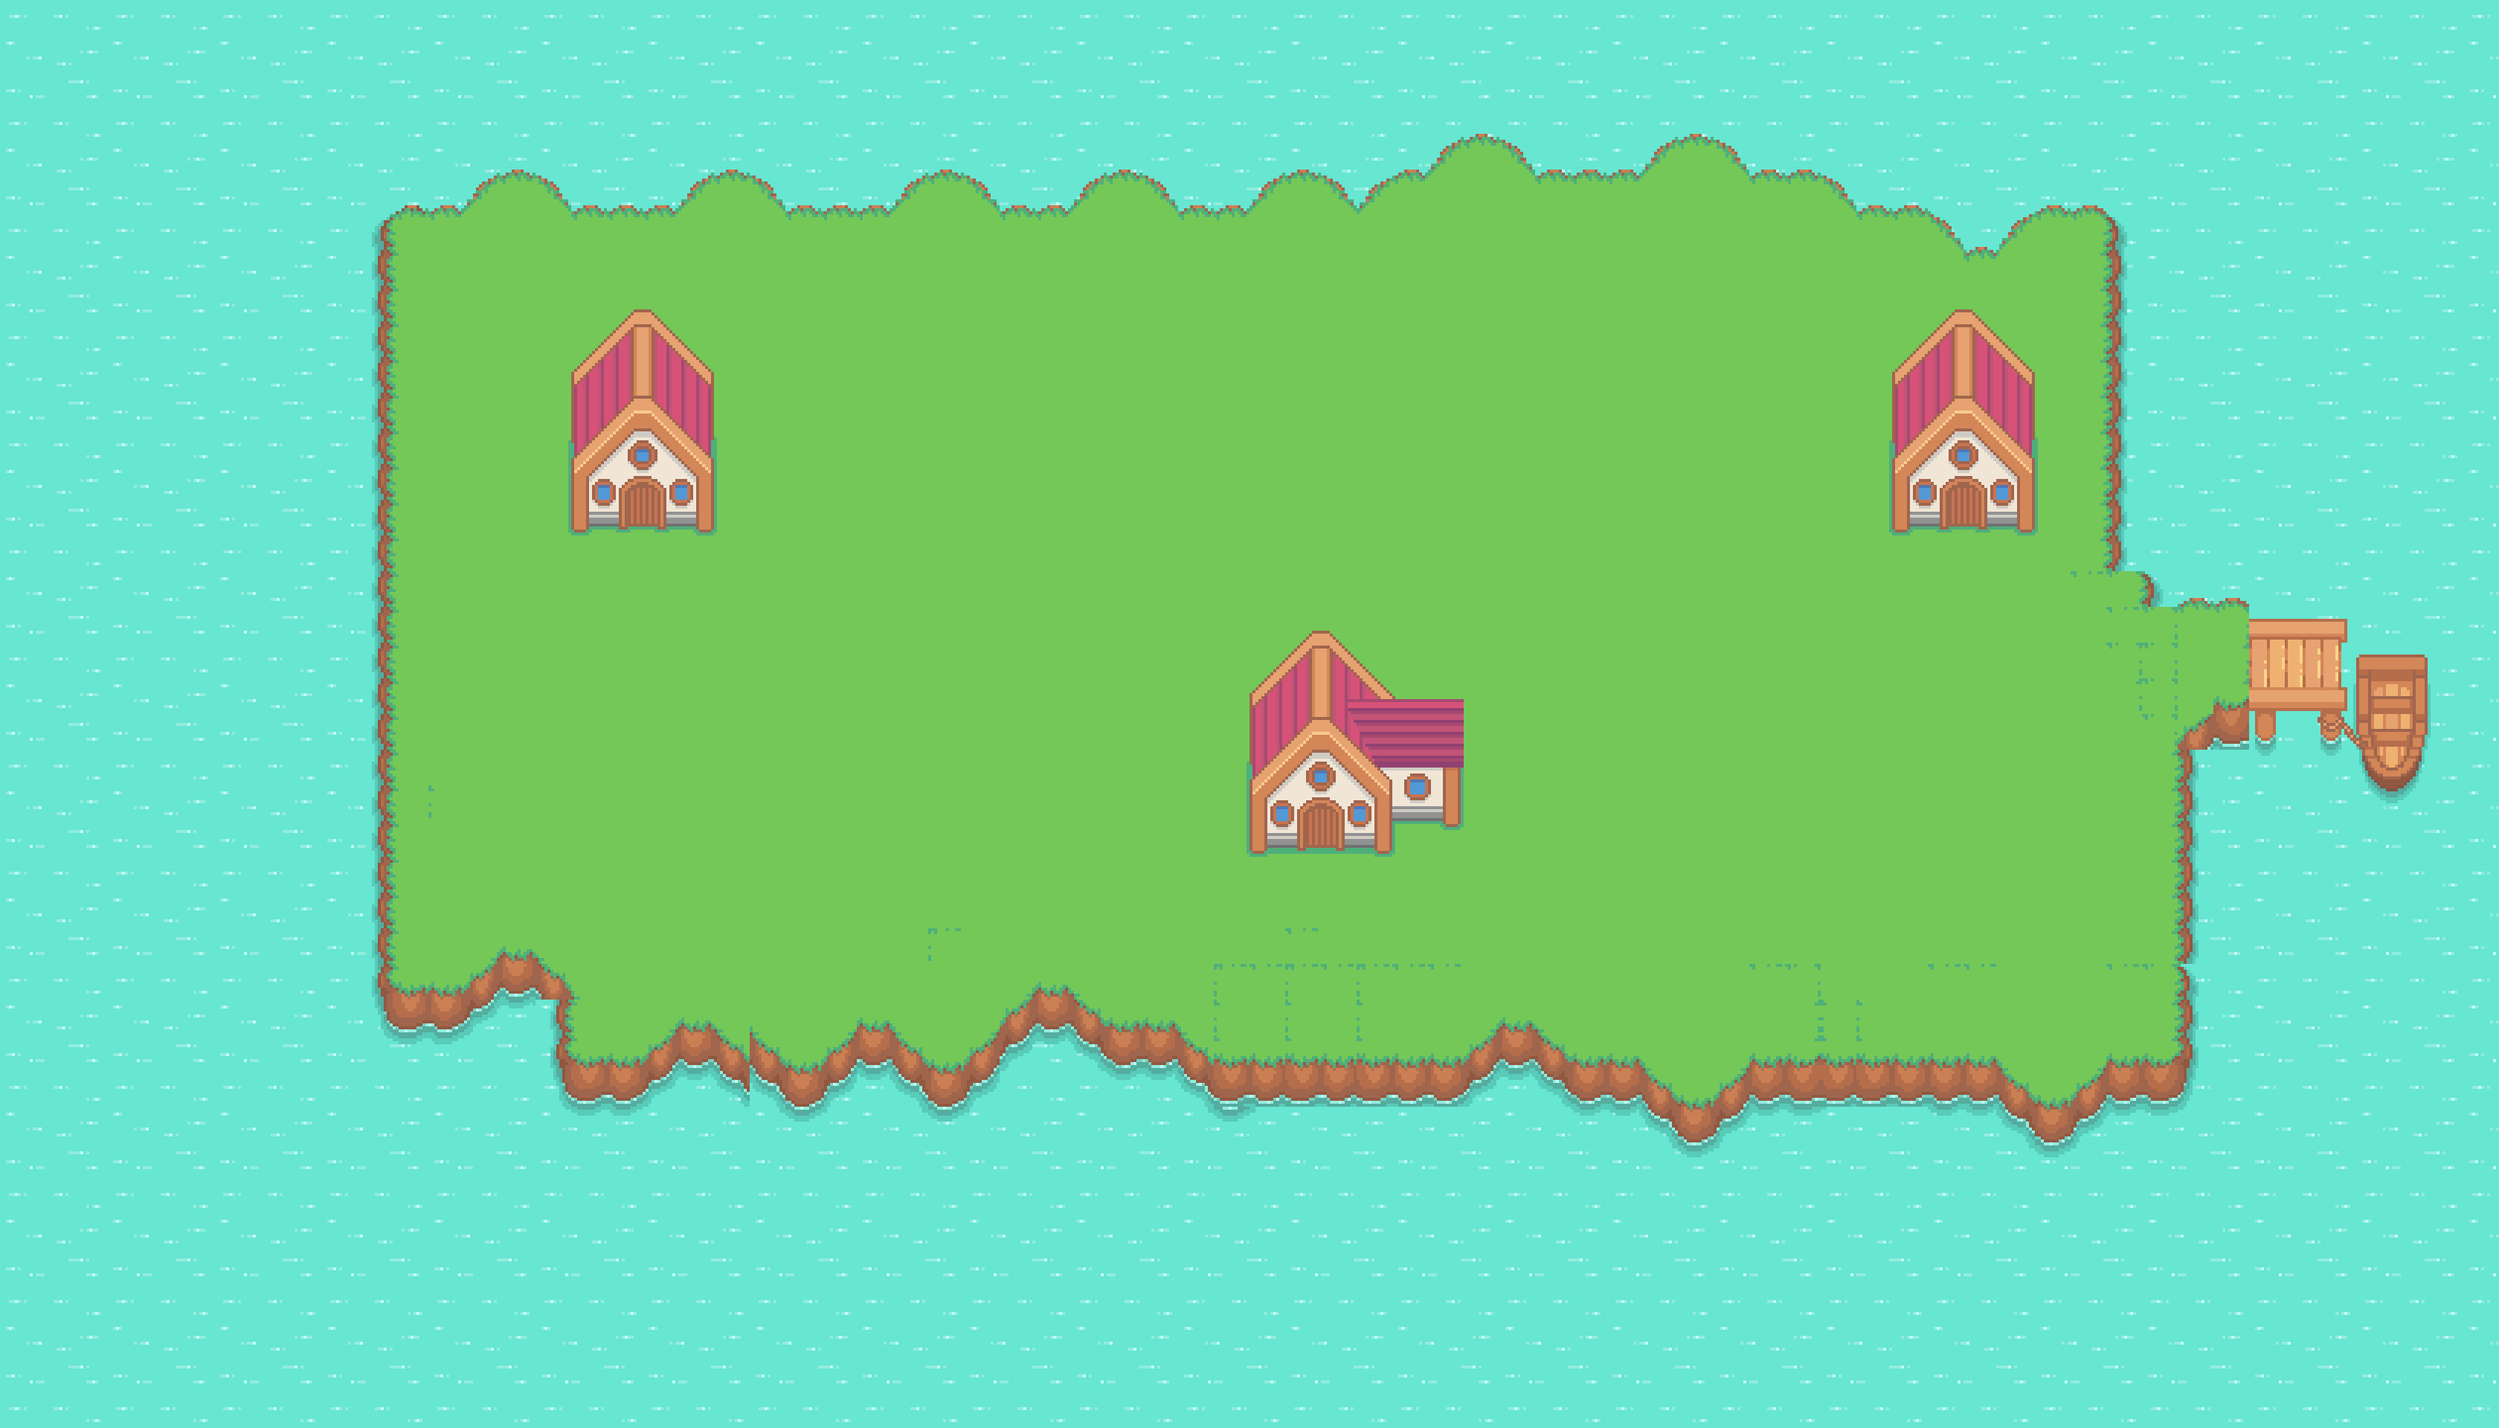
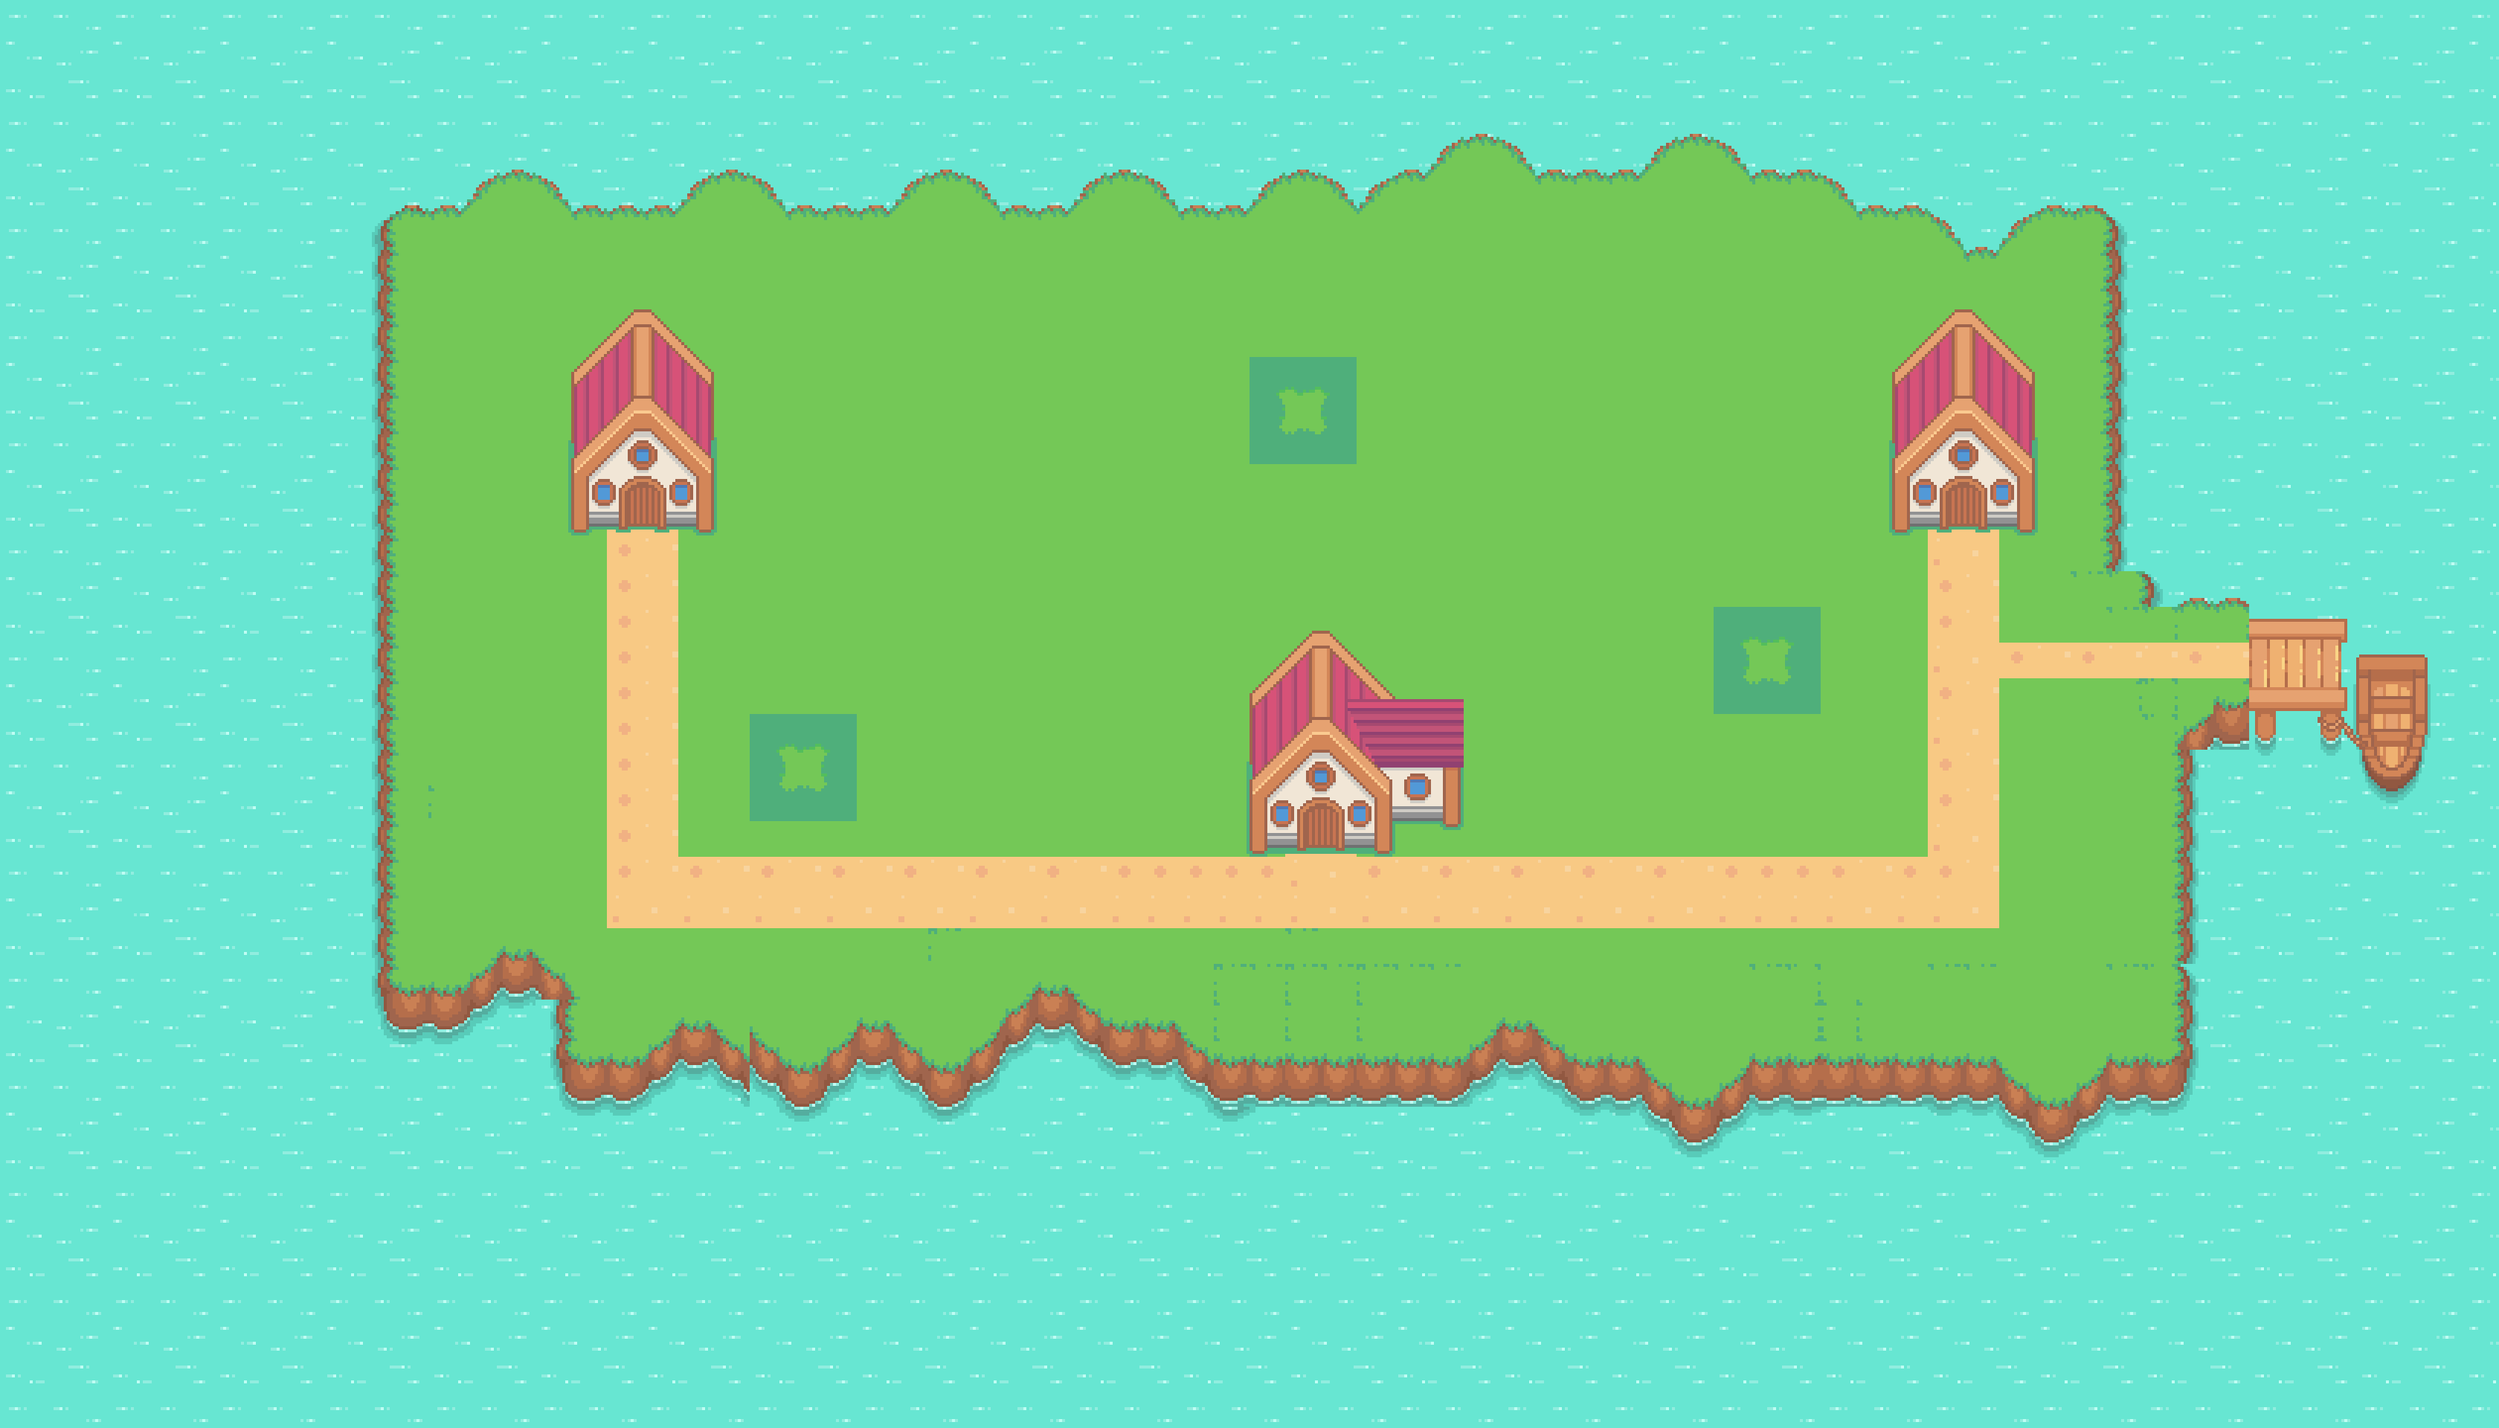
main (22.11.23.01): battlezones

Changed region(s): [[0.2188, 0.375, 0.9062, 0.6562], [0.5, 0.25, 0.5625, 0.3438]]

diff --git a/try/pokemon/data/battles.js b/try/pokemon/data/battles.js
@@ -1,0 +1,40 @@
+const battleZonesData = [0, 0, 0, 0, 0, 0, 0, 0, 0, 0, 0, 0, 0, 0, 0, 0, 0, 0, 0, 0, 0, 0, 0, 0, 0, 0, 0, 0, 0, 0, 0, 0, 0, 0, 0, 0, 0, 0, 0, 0, 0, 0, 0, 0, 0, 0, 0, 0, 0, 0, 0, 0, 0, 0, 0, 0, 0, 0, 0, 0, 0, 0, 0, 0, 0, 0, 0, 0, 0, 0,
+    0, 0, 0, 0, 0, 0, 0, 0, 0, 0, 0, 0, 0, 0, 0, 0, 0, 0, 0, 0, 0, 0, 0, 0, 0, 0, 0, 0, 0, 0, 0, 0, 0, 0, 0, 0, 0, 0, 0, 0, 0, 0, 0, 0, 0, 0, 0, 0, 0, 0, 0, 0, 0, 0, 0, 0, 0, 0, 0, 0, 0, 0, 0, 0, 0, 0, 0, 0, 0, 0,
+    0, 0, 0, 0, 0, 0, 0, 0, 0, 0, 0, 0, 0, 0, 0, 0, 0, 0, 0, 0, 0, 0, 0, 0, 0, 0, 0, 0, 0, 0, 0, 0, 0, 0, 0, 0, 0, 0, 0, 0, 0, 0, 0, 0, 0, 0, 0, 0, 0, 0, 0, 0, 0, 0, 0, 0, 0, 0, 0, 0, 0, 0, 0, 0, 0, 0, 0, 0, 0, 0,
+    0, 0, 0, 0, 0, 0, 0, 0, 0, 0, 0, 0, 0, 0, 0, 0, 0, 0, 0, 0, 0, 0, 0, 0, 0, 0, 0, 0, 0, 0, 0, 0, 0, 0, 0, 0, 0, 0, 0, 0, 0, 0, 0, 0, 0, 0, 0, 0, 0, 0, 0, 0, 0, 0, 0, 0, 0, 0, 0, 0, 0, 0, 0, 0, 0, 0, 0, 0, 0, 0,
+    0, 0, 0, 0, 0, 0, 0, 0, 0, 0, 0, 0, 0, 0, 0, 0, 0, 0, 0, 0, 0, 0, 0, 0, 0, 0, 0, 0, 0, 0, 0, 0, 0, 0, 0, 0, 0, 0, 0, 0, 0, 0, 0, 0, 0, 0, 0, 0, 0, 0, 0, 0, 0, 0, 0, 0, 0, 0, 0, 0, 0, 0, 0, 0, 0, 0, 0, 0, 0, 0,
+    0, 0, 0, 0, 0, 0, 0, 0, 0, 0, 0, 0, 0, 0, 0, 0, 0, 0, 0, 0, 0, 0, 0, 0, 0, 0, 0, 0, 0, 0, 0, 0, 0, 0, 0, 0, 0, 0, 0, 0, 0, 0, 0, 0, 0, 0, 0, 0, 0, 0, 0, 0, 0, 0, 0, 0, 0, 0, 0, 0, 0, 0, 0, 0, 0, 0, 0, 0, 0, 0,
+    0, 0, 0, 0, 0, 0, 0, 0, 0, 0, 0, 0, 0, 0, 0, 0, 0, 0, 0, 0, 0, 0, 0, 0, 0, 0, 0, 0, 0, 0, 0, 0, 0, 0, 0, 0, 0, 0, 0, 0, 0, 0, 0, 0, 0, 0, 0, 0, 0, 0, 0, 0, 0, 0, 0, 0, 0, 0, 0, 0, 0, 0, 0, 0, 0, 0, 0, 0, 0, 0,
+    0, 0, 0, 0, 0, 0, 0, 0, 0, 0, 0, 0, 0, 0, 0, 0, 0, 0, 0, 0, 0, 0, 0, 0, 0, 0, 0, 0, 0, 0, 0, 0, 0, 0, 0, 0, 0, 0, 0, 0, 0, 0, 0, 0, 0, 0, 0, 0, 0, 0, 0, 0, 0, 0, 0, 0, 0, 0, 0, 0, 0, 0, 0, 0, 0, 0, 0, 0, 0, 0,
+    0, 0, 0, 0, 0, 0, 0, 0, 0, 0, 0, 0, 0, 0, 0, 0, 0, 0, 0, 0, 0, 0, 0, 0, 0, 0, 0, 0, 0, 0, 0, 0, 0, 0, 0, 0, 0, 0, 0, 0, 0, 0, 0, 0, 0, 0, 0, 0, 0, 0, 0, 0, 0, 0, 0, 0, 0, 0, 0, 0, 0, 0, 0, 0, 0, 0, 0, 0, 0, 0,
+    0, 0, 0, 0, 0, 0, 0, 0, 0, 0, 0, 0, 0, 0, 0, 0, 0, 0, 0, 0, 0, 0, 0, 0, 0, 0, 0, 0, 0, 0, 0, 0, 0, 0, 0, 0, 0, 0, 0, 0, 0, 0, 0, 0, 0, 0, 0, 0, 0, 0, 0, 0, 0, 0, 0, 0, 0, 0, 0, 0, 0, 0, 0, 0, 0, 0, 0, 0, 0, 0,
+    0, 0, 0, 0, 0, 0, 0, 0, 0, 0, 0, 0, 0, 0, 0, 0, 0, 0, 0, 0, 0, 0, 0, 0, 0, 0, 0, 0, 0, 0, 0, 0, 0, 0, 0, 1025, 1025, 1025, 0, 0, 0, 0, 0, 0, 0, 0, 0, 0, 0, 0, 0, 0, 0, 0, 0, 0, 0, 0, 0, 0, 0, 0, 0, 0, 0, 0, 0, 0, 0, 0,
+    0, 0, 0, 0, 0, 0, 0, 0, 0, 0, 0, 0, 0, 0, 0, 0, 0, 0, 0, 0, 0, 0, 0, 0, 0, 0, 0, 0, 0, 0, 0, 0, 0, 0, 0, 1025, 1025, 1025, 0, 0, 0, 0, 0, 0, 0, 0, 0, 0, 0, 0, 0, 0, 0, 0, 0, 0, 0, 0, 0, 0, 0, 0, 0, 0, 0, 0, 0, 0, 0, 0,
+    0, 0, 0, 0, 0, 0, 0, 0, 0, 0, 0, 0, 0, 0, 0, 0, 0, 0, 0, 0, 0, 0, 0, 0, 0, 0, 0, 0, 0, 0, 0, 0, 0, 0, 0, 1025, 1025, 1025, 0, 0, 0, 0, 0, 0, 0, 0, 0, 0, 0, 0, 0, 0, 0, 0, 0, 0, 0, 0, 0, 0, 0, 0, 0, 0, 0, 0, 0, 0, 0, 0,
+    0, 0, 0, 0, 0, 0, 0, 0, 0, 0, 0, 0, 0, 0, 0, 0, 0, 0, 0, 0, 0, 0, 0, 0, 0, 0, 0, 0, 0, 0, 0, 0, 0, 0, 0, 0, 0, 0, 0, 0, 0, 0, 0, 0, 0, 0, 0, 0, 0, 0, 0, 0, 0, 0, 0, 0, 0, 0, 0, 0, 0, 0, 0, 0, 0, 0, 0, 0, 0, 0,
+    0, 0, 0, 0, 0, 0, 0, 0, 0, 0, 0, 0, 0, 0, 0, 0, 0, 0, 0, 0, 0, 0, 0, 0, 0, 0, 0, 0, 0, 0, 0, 0, 0, 0, 0, 0, 0, 0, 0, 0, 0, 0, 0, 0, 0, 0, 0, 0, 0, 0, 0, 0, 0, 0, 0, 0, 0, 0, 0, 0, 0, 0, 0, 0, 0, 0, 0, 0, 0, 0,
+    0, 0, 0, 0, 0, 0, 0, 0, 0, 0, 0, 0, 0, 0, 0, 0, 0, 0, 0, 0, 0, 0, 0, 0, 0, 0, 0, 0, 0, 0, 0, 0, 0, 0, 0, 0, 0, 0, 0, 0, 0, 0, 0, 0, 0, 0, 0, 0, 0, 0, 0, 0, 0, 0, 0, 0, 0, 0, 0, 0, 0, 0, 0, 0, 0, 0, 0, 0, 0, 0,
+    0, 0, 0, 0, 0, 0, 0, 0, 0, 0, 0, 0, 0, 0, 0, 0, 0, 0, 0, 0, 0, 0, 0, 0, 0, 0, 0, 0, 0, 0, 0, 0, 0, 0, 0, 0, 0, 0, 0, 0, 0, 0, 0, 0, 0, 0, 0, 0, 0, 0, 0, 0, 0, 0, 0, 0, 0, 0, 0, 0, 0, 0, 0, 0, 0, 0, 0, 0, 0, 0,
+    0, 0, 0, 0, 0, 0, 0, 0, 0, 0, 0, 0, 0, 0, 0, 0, 0, 0, 0, 0, 0, 0, 0, 0, 0, 0, 0, 0, 0, 0, 0, 0, 0, 0, 0, 0, 0, 0, 0, 0, 0, 0, 0, 0, 0, 0, 0, 0, 1025, 1025, 1025, 0, 0, 0, 0, 0, 0, 0, 0, 0, 0, 0, 0, 0, 0, 0, 0, 0, 0, 0,
+    0, 0, 0, 0, 0, 0, 0, 0, 0, 0, 0, 0, 0, 0, 0, 0, 0, 0, 0, 0, 0, 0, 0, 0, 0, 0, 0, 0, 0, 0, 0, 0, 0, 0, 0, 0, 0, 0, 0, 0, 0, 0, 0, 0, 0, 0, 0, 0, 1025, 1025, 1025, 0, 0, 0, 0, 0, 0, 0, 0, 0, 0, 0, 0, 0, 0, 0, 0, 0, 0, 0,
+    0, 0, 0, 0, 0, 0, 0, 0, 0, 0, 0, 0, 0, 0, 0, 0, 0, 0, 0, 0, 0, 0, 0, 0, 0, 0, 0, 0, 0, 0, 0, 0, 0, 0, 0, 0, 0, 0, 0, 0, 0, 0, 0, 0, 0, 0, 0, 0, 1025, 1025, 1025, 0, 0, 0, 0, 0, 0, 0, 0, 0, 0, 0, 0, 0, 0, 0, 0, 0, 0, 0,
+    0, 0, 0, 0, 0, 0, 0, 0, 0, 0, 0, 0, 0, 0, 0, 0, 0, 0, 0, 0, 0, 1025, 1025, 1025, 0, 0, 0, 0, 0, 0, 0, 0, 0, 0, 0, 0, 0, 0, 0, 0, 0, 0, 0, 0, 0, 0, 0, 0, 0, 0, 0, 0, 0, 0, 0, 0, 0, 0, 0, 0, 0, 0, 0, 0, 0, 0, 0, 0, 0, 0,
+    0, 0, 0, 0, 0, 0, 0, 0, 0, 0, 0, 0, 0, 0, 0, 0, 0, 0, 0, 0, 0, 1025, 1025, 1025, 0, 0, 0, 0, 0, 0, 0, 0, 0, 0, 0, 0, 0, 0, 0, 0, 0, 0, 0, 0, 0, 0, 0, 0, 0, 0, 0, 0, 0, 0, 0, 0, 0, 0, 0, 0, 0, 0, 0, 0, 0, 0, 0, 0, 0, 0,
+    0, 0, 0, 0, 0, 0, 0, 0, 0, 0, 0, 0, 0, 0, 0, 0, 0, 0, 0, 0, 0, 1025, 1025, 1025, 0, 0, 0, 0, 0, 0, 0, 0, 0, 0, 0, 0, 0, 0, 0, 0, 0, 0, 0, 0, 0, 0, 0, 0, 0, 0, 0, 0, 0, 0, 0, 0, 0, 0, 0, 0, 0, 0, 0, 0, 0, 0, 0, 0, 0, 0,
+    0, 0, 0, 0, 0, 0, 0, 0, 0, 0, 0, 0, 0, 0, 0, 0, 0, 0, 0, 0, 0, 0, 0, 0, 0, 0, 0, 0, 0, 0, 0, 0, 0, 0, 0, 0, 0, 0, 0, 0, 0, 0, 0, 0, 0, 0, 0, 0, 0, 0, 0, 0, 0, 0, 0, 0, 0, 0, 0, 0, 0, 0, 0, 0, 0, 0, 0, 0, 0, 0,
+    0, 0, 0, 0, 0, 0, 0, 0, 0, 0, 0, 0, 0, 0, 0, 0, 0, 0, 0, 0, 0, 0, 0, 0, 0, 0, 0, 0, 0, 0, 0, 0, 0, 0, 0, 0, 0, 0, 0, 0, 0, 0, 0, 0, 0, 0, 0, 0, 0, 0, 0, 0, 0, 0, 0, 0, 0, 0, 0, 0, 0, 0, 0, 0, 0, 0, 0, 0, 0, 0,
+    0, 0, 0, 0, 0, 0, 0, 0, 0, 0, 0, 0, 0, 0, 0, 0, 0, 0, 0, 0, 0, 0, 0, 0, 0, 0, 0, 0, 0, 0, 0, 0, 0, 0, 0, 0, 0, 0, 0, 0, 0, 0, 0, 0, 0, 0, 0, 0, 0, 0, 0, 0, 0, 0, 0, 0, 0, 0, 0, 0, 0, 0, 0, 0, 0, 0, 0, 0, 0, 0,
+    0, 0, 0, 0, 0, 0, 0, 0, 0, 0, 0, 0, 0, 0, 0, 0, 0, 0, 0, 0, 0, 0, 0, 0, 0, 0, 0, 0, 0, 0, 0, 0, 0, 0, 0, 0, 0, 0, 0, 0, 0, 0, 0, 0, 0, 0, 0, 0, 0, 0, 0, 0, 0, 0, 0, 0, 0, 0, 0, 0, 0, 0, 0, 0, 0, 0, 0, 0, 0, 0,
+    0, 0, 0, 0, 0, 0, 0, 0, 0, 0, 0, 0, 0, 0, 0, 0, 0, 0, 0, 0, 0, 0, 0, 0, 0, 0, 0, 0, 0, 0, 0, 0, 0, 0, 0, 0, 0, 0, 0, 0, 0, 0, 0, 0, 0, 0, 0, 0, 0, 0, 0, 0, 0, 0, 0, 0, 0, 0, 0, 0, 0, 0, 0, 0, 0, 0, 0, 0, 0, 0,
+    0, 0, 0, 0, 0, 0, 0, 0, 0, 0, 0, 0, 0, 0, 0, 0, 0, 0, 0, 0, 0, 0, 0, 0, 0, 0, 0, 0, 0, 0, 0, 0, 0, 0, 0, 0, 0, 0, 0, 0, 0, 0, 0, 0, 0, 0, 0, 0, 0, 0, 0, 0, 0, 0, 0, 0, 0, 0, 0, 0, 0, 0, 0, 0, 0, 0, 0, 0, 0, 0,
+    0, 0, 0, 0, 0, 0, 0, 0, 0, 0, 0, 0, 0, 0, 0, 0, 0, 0, 0, 0, 0, 0, 0, 0, 0, 0, 0, 0, 0, 0, 0, 0, 0, 0, 0, 0, 0, 0, 0, 0, 0, 0, 0, 0, 0, 0, 0, 0, 0, 0, 0, 0, 0, 0, 0, 0, 0, 0, 0, 0, 0, 0, 0, 0, 0, 0, 0, 0, 0, 0,
+    0, 0, 0, 0, 0, 0, 0, 0, 0, 0, 0, 0, 0, 0, 0, 0, 0, 0, 0, 0, 0, 0, 0, 0, 0, 0, 0, 0, 0, 0, 0, 0, 0, 0, 0, 0, 0, 0, 0, 0, 0, 0, 0, 0, 0, 0, 0, 0, 0, 0, 0, 0, 0, 0, 0, 0, 0, 0, 0, 0, 0, 0, 0, 0, 0, 0, 0, 0, 0, 0,
+    0, 0, 0, 0, 0, 0, 0, 0, 0, 0, 0, 0, 0, 0, 0, 0, 0, 0, 0, 0, 0, 0, 0, 0, 0, 0, 0, 0, 0, 0, 0, 0, 0, 0, 0, 0, 0, 0, 0, 0, 0, 0, 0, 0, 0, 0, 0, 0, 0, 0, 0, 0, 0, 0, 0, 0, 0, 0, 0, 0, 0, 0, 0, 0, 0, 0, 0, 0, 0, 0,
+    0, 0, 0, 0, 0, 0, 0, 0, 0, 0, 0, 0, 0, 0, 0, 0, 0, 0, 0, 0, 0, 0, 0, 0, 0, 0, 0, 0, 0, 0, 0, 0, 0, 0, 0, 0, 0, 0, 0, 0, 0, 0, 0, 0, 0, 0, 0, 0, 0, 0, 0, 0, 0, 0, 0, 0, 0, 0, 0, 0, 0, 0, 0, 0, 0, 0, 0, 0, 0, 0,
+    0, 0, 0, 0, 0, 0, 0, 0, 0, 0, 0, 0, 0, 0, 0, 0, 0, 0, 0, 0, 0, 0, 0, 0, 0, 0, 0, 0, 0, 0, 0, 0, 0, 0, 0, 0, 0, 0, 0, 0, 0, 0, 0, 0, 0, 0, 0, 0, 0, 0, 0, 0, 0, 0, 0, 0, 0, 0, 0, 0, 0, 0, 0, 0, 0, 0, 0, 0, 0, 0,
+    0, 0, 0, 0, 0, 0, 0, 0, 0, 0, 0, 0, 0, 0, 0, 0, 0, 0, 0, 0, 0, 0, 0, 0, 0, 0, 0, 0, 0, 0, 0, 0, 0, 0, 0, 0, 0, 0, 0, 0, 0, 0, 0, 0, 0, 0, 0, 0, 0, 0, 0, 0, 0, 0, 0, 0, 0, 0, 0, 0, 0, 0, 0, 0, 0, 0, 0, 0, 0, 0,
+    0, 0, 0, 0, 0, 0, 0, 0, 0, 0, 0, 0, 0, 0, 0, 0, 0, 0, 0, 0, 0, 0, 0, 0, 0, 0, 0, 0, 0, 0, 0, 0, 0, 0, 0, 0, 0, 0, 0, 0, 0, 0, 0, 0, 0, 0, 0, 0, 0, 0, 0, 0, 0, 0, 0, 0, 0, 0, 0, 0, 0, 0, 0, 0, 0, 0, 0, 0, 0, 0,
+    0, 0, 0, 0, 0, 0, 0, 0, 0, 0, 0, 0, 0, 0, 0, 0, 0, 0, 0, 0, 0, 0, 0, 0, 0, 0, 0, 0, 0, 0, 0, 0, 0, 0, 0, 0, 0, 0, 0, 0, 0, 0, 0, 0, 0, 0, 0, 0, 0, 0, 0, 0, 0, 0, 0, 0, 0, 0, 0, 0, 0, 0, 0, 0, 0, 0, 0, 0, 0, 0,
+    0, 0, 0, 0, 0, 0, 0, 0, 0, 0, 0, 0, 0, 0, 0, 0, 0, 0, 0, 0, 0, 0, 0, 0, 0, 0, 0, 0, 0, 0, 0, 0, 0, 0, 0, 0, 0, 0, 0, 0, 0, 0, 0, 0, 0, 0, 0, 0, 0, 0, 0, 0, 0, 0, 0, 0, 0, 0, 0, 0, 0, 0, 0, 0, 0, 0, 0, 0, 0, 0,
+    0, 0, 0, 0, 0, 0, 0, 0, 0, 0, 0, 0, 0, 0, 0, 0, 0, 0, 0, 0, 0, 0, 0, 0, 0, 0, 0, 0, 0, 0, 0, 0, 0, 0, 0, 0, 0, 0, 0, 0, 0, 0, 0, 0, 0, 0, 0, 0, 0, 0, 0, 0, 0, 0, 0, 0, 0, 0, 0, 0, 0, 0, 0, 0, 0, 0, 0, 0, 0, 0,
+    0, 0, 0, 0, 0, 0, 0, 0, 0, 0, 0, 0, 0, 0, 0, 0, 0, 0, 0, 0, 0, 0, 0, 0, 0, 0, 0, 0, 0, 0, 0, 0, 0, 0, 0, 0, 0, 0, 0, 0, 0, 0, 0, 0, 0, 0, 0, 0, 0, 0, 0, 0, 0, 0, 0, 0, 0, 0, 0, 0, 0, 0, 0, 0, 0, 0, 0, 0, 0, 0];

diff --git a/try/pokemon/index.js b/try/pokemon/index.js
@@ -8,9 +8,14 @@ canvas.width = 1024;
 canvas.height = 576;
 
 const collisionsMap = [];
-
 for (let i = 0; i < collisions.length; i += 70) {
     collisionsMap.push(collisions.slice(i, i + 70));
+}
+
+
+const battleZonesMap = [];
+for (let i = 0; i < battleZonesData.length; i += 70) {
+    battleZonesMap.push(battleZonesData.slice(i, i + 70));
 }
 
 
@@ -29,7 +34,23 @@ collisionsMap.forEach((row, i) => {
                     x: j * Boundary.width + offset.x,
                     y: i * Boundary.height + offset.y
                 }})
-            );
+            ); 
+        
+    })
+})
+
+
+const battleZones = [];
+
+battleZonesMap.forEach((row, i) => {
+    row.forEach((symbol, j) => {
+        if (symbol === 1025)
+            battleZones.push(
+                new Boundary({position: {
+                    x: j * Boundary.width + offset.x,
+                    y: i * Boundary.height + offset.y
+                }})
+            ); 
         
     })
 })
@@ -71,7 +92,6 @@ const player = new Sprite({
     }
 });
 
-console.log(player);
 
 const background = new Sprite({
     position: {
@@ -107,7 +127,7 @@ const keys = {
 }
 
 
-const movables = [background, ...boundaries, foreground];
+const movables = [background, ...boundaries, foreground, ...battleZones];
 
 function rectCollision({rectangle1, rectangle2}) {
     return (
@@ -128,6 +148,10 @@ function animate() {
 
     });
     
+    battleZones.forEach(battleZone => {
+        battleZone.draw();
+    })
+
     player.draw();      //player
     
     foreground.draw();      //foreground
@@ -135,10 +159,44 @@ function animate() {
     let moving = true;
     player.moving = false;      //player moving animation stop 
 
+
+    //battlezone
+    if (keys.ArrowUp.pressed || keys.ArrowRight.pressed || keys.ArrowDown.pressed || keys.ArrowLeft.pressed) {
+        
+        for (let i=0; i < battleZones.length; i++){
+            const battleZone = battleZones[i];
+            
+            //battlezone trigger area
+            const overlappingArea = 
+                (Math.min(player.position.x + player.width, battleZone.position.x + battleZone.width) - 
+                Math.max(player.position.x, battleZone.position.x)) * 
+                (Math.min(player.position.y + player.height, battleZone.position.y + battleZone.height) - 
+                Math.max(player.position.y, battleZone.position.y));
+            
+
+            if (
+                rectCollision({ 
+                    rectangle1: player, 
+                    rectangle2: battleZone
+                }) &&
+
+                overlappingArea > (player.width * player.height) / 2 &&
+
+                Math.random() < 0.01        //low possibility of battle occuring
+                ) {
+                    console.log('battleZone collision');
+                    break
+            } 
+           
+        }
+    }
+
+
     if (keys.ArrowUp.pressed && lastKey === 'ArrowUp') {
             player.moving = true;
             player.image = player.sprites.up;
 
+            //collision
             for (let i=0; i < boundaries.length; i++){
                 const boundary = boundaries[i];
                 if (
@@ -156,6 +214,7 @@ function animate() {
                 } 
             }
 
+            
             if (moving) {
                 movables.forEach((movable => {
                     movable.position.y += 3;

diff --git a/try/pokemon/classes.js b/try/pokemon/classes.js
@@ -10,7 +10,7 @@ class Boundary {
     }
 
     draw() {
-        context.fillStyle = 'rgba(255, 0, 0, 0)';
+        context.fillStyle = 'rgba(255, 0, 0, 0.5)';
         context.fillRect(this.position.x, this.position.y, this.width, this.height);
     }
 }

diff --git a/try/pokemon/index.html b/try/pokemon/index.html
@@ -5,7 +5,7 @@
 </style>
 
 <canvas></canvas>
+<script src="./data/battles.js"></script>
 <script src="./data/collisions.js"></script>
-<script src="variables.js"></script>
 <script src="classes.js"></script>
 <script src="index.js"></script>
